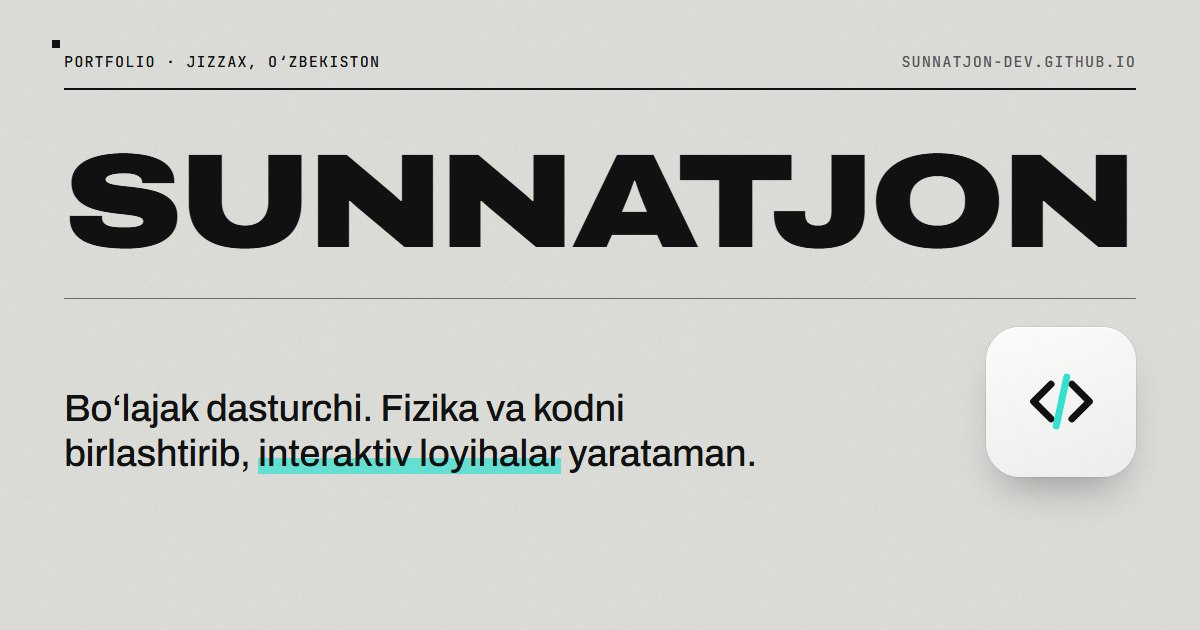
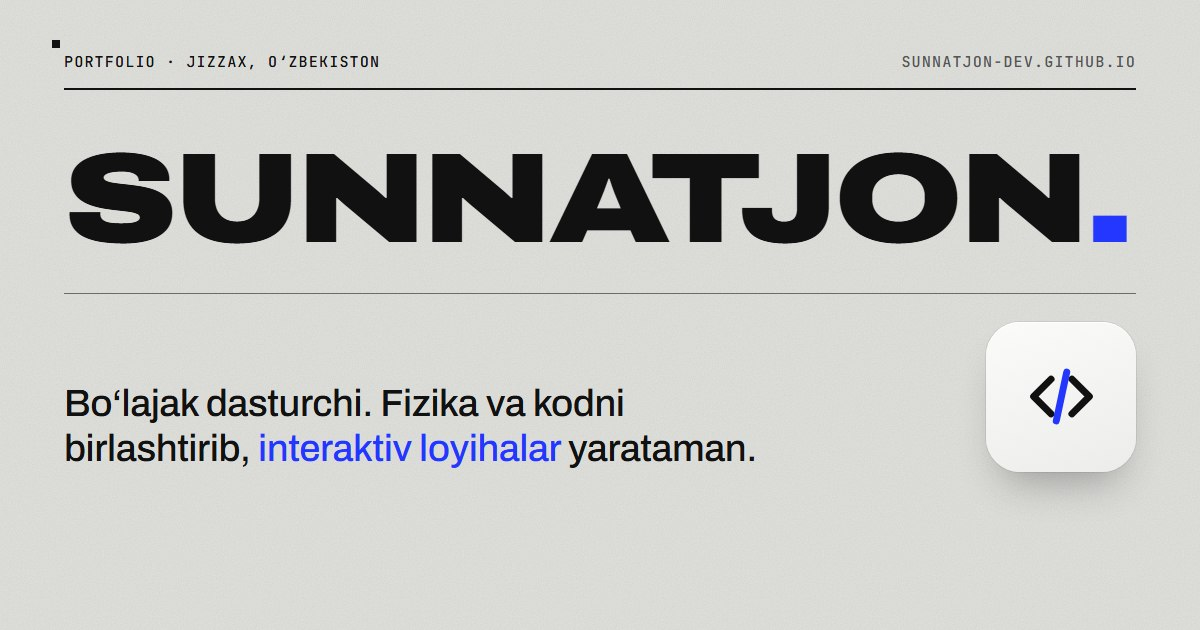
Asosiy rang: elektr-ko'k (#2337FF)
- Moviy (#33E0D0) o'rniga to'yingan elektr-ko'k — Swiss posterlarining klassik rangi
- Kontrast yetarli (fonda 5.2:1, oq yozuv bilan 6.9:1), shuning uchun endi
  tugmalar, ajratilgan so'zlar va sarlavha nuqtasida ham ishlatiladi
- Qora terminal ichida och ko'k variant (#9AA6FF)
- Laboratoriya grafiklari, favicon, telefon ikonkasi, og:image va
  loyiha sahifasidagi skrinshotlar yangi rangda

diff --git a/style.css b/style.css
@@ -56,10 +56,12 @@
   --code-bg: rgba(17, 17, 17, 0.08);
   --hover: #ffffff;                  /* tugma ustiga kelganda */
   --placeholder: #7d7d79;
-  --mark: rgba(51, 224, 208, 0.55);  /* matn ostidagi moviy belgi */
+  --mark: rgba(35, 55, 255, 0.16);   /* asosiy rangning och varianti (fon uchun) */
 
   /* Yagona urg'u rangi (Swiss qoidasi: bitta rang) — faqat bezak uchun, matnda emas */
-  --cyan: #33e0d0;
+  --accent: #2337ff;          /* ASOSIY RANG — elektr-ko'k (Klein ko'ki). Fonda 5.2:1, oq yozuv bilan 6.9:1 kontrast */
+  --accent-dark: #1626d9;     /* tugma ustiga kelganda */
+  --accent-on-dark: #9aa6ff;  /* qora terminal ichida (u yerda to'q ko'k ko'rinmaydi) */
 
   /* Yozuv o'lchamlari shkalasi — butun saytda faqat shular ishlatiladi */
   --fs-xs: 12px;     /* yorliqlar, mono yozuvlar */
@@ -172,7 +174,7 @@ svg { display: block; }
 
 .mast__title {
   margin: clamp(28px, 5vw, 56px) 0 clamp(20px, 3vw, 32px);
-  font-size: min(11.4vw, 142px);
+  font-size: min(11vw, 136px);   /* oxiridagi nuqta bilan ham bir qatorga sig'adi */
   font-weight: 900;
   line-height: 0.82;
   letter-spacing: -0.025em;
@@ -183,13 +185,13 @@ svg { display: block; }
   width: 9px;
   height: 9px;
   border-radius: 50%;
-  background: var(--cyan);
+  background: var(--accent);
   box-shadow: 0 0 0 1.5px var(--ink);
   animation: pulse 2.4s infinite;
 }
 @keyframes pulse {
-  0%, 100% { box-shadow: 0 0 0 1.5px var(--ink), 0 0 0 0 rgba(51, 224, 208, .6); }
-  60% { box-shadow: 0 0 0 1.5px var(--ink), 0 0 0 7px rgba(51, 224, 208, 0); }
+  0%, 100% { box-shadow: 0 0 0 1.5px var(--ink), 0 0 0 0 rgba(35, 55, 255, .5); }
+  60% { box-shadow: 0 0 0 1.5px var(--ink), 0 0 0 7px rgba(35, 55, 255, 0); }
 }
 
 .barcode { height: 34px; width: auto; fill: var(--ink); }
@@ -225,8 +227,11 @@ svg { display: block; }
 }
 .hero__lead em {
   font-style: normal;
-  background: linear-gradient(transparent 62%, var(--mark) 62%);
+  color: var(--accent);   /* eng muhim so'zlar asosiy rangda */
 }
+
+/* Sarlavha oxiridagi ko'k nuqta — saytning kichik "belgisi" */
+.mast__dot { color: var(--accent); }
 .hero__side { display: grid; gap: 18px; }
 .status { font-size: var(--fs-xs); letter-spacing: 0.04em; text-transform: uppercase; }
 .hero__cta { display: flex; flex-wrap: wrap; gap: 8px; }
@@ -381,7 +386,7 @@ code {
 .proj__n { color: var(--muted); font-size: var(--fs-xs); line-height: 1.9; }
 .proj h3 { color: var(--ink); font-size: var(--fs-lg); font-weight: 700; font-stretch: 112%; line-height: 1.3; }
 .proj h3 a { display: inline-block; padding: 2px 0; text-decoration: none; }
-.proj h3 a:hover { text-decoration: underline; text-decoration-color: var(--cyan); text-decoration-thickness: 3px; text-underline-offset: 5px; }
+.proj h3 a:hover { text-decoration: underline; text-decoration-color: var(--accent); text-decoration-thickness: 3px; text-underline-offset: 5px; }
 .proj p { margin-top: 6px; color: var(--text); font-size: var(--fs-md); line-height: 1.65; max-width: 52ch; text-wrap: pretty; }
 .proj__links {
   display: flex;
@@ -399,7 +404,7 @@ code {
   color: var(--ink);
   text-underline-offset: 4px;
 }
-.proj__links a:hover { text-decoration-color: var(--cyan); text-decoration-thickness: 2px; }
+.proj__links a:hover { text-decoration-color: var(--accent); text-decoration-thickness: 2px; }
 .projects__next { margin-top: auto; padding-top: 18px; border-top: 1px solid var(--rule); }
 
 .tags { display: flex; flex-wrap: wrap; gap: 6px; margin-top: 12px; }
@@ -433,7 +438,7 @@ code {
   text-transform: uppercase;
 }
 .skills h3 i { width: 10px; height: 10px; background: var(--ink); }
-.skills h3 i.c { background: var(--cyan); box-shadow: inset 0 0 0 1px var(--ink); }
+.skills h3 i.c { background: var(--accent); box-shadow: inset 0 0 0 1px var(--ink); }
 .skills h3 i.l { background: transparent; box-shadow: inset 0 0 0 1px var(--ink); }
 .skills li { padding: 5px 0 5px 20px; color: var(--text); font-size: var(--fs-md); }
 .skills li b { color: var(--ink); font-weight: 600; }
@@ -454,7 +459,7 @@ code {
 .legend { margin-top: auto; padding-top: 22px; justify-content: flex-start; gap: 18px; }
 .legend span { display: inline-flex; align-items: center; gap: 8px; }
 .legend i { width: 10px; height: 10px; background: var(--ink); }
-.legend i.c { background: var(--cyan); box-shadow: inset 0 0 0 1px var(--ink); }
+.legend i.c { background: var(--accent); box-shadow: inset 0 0 0 1px var(--ink); }
 .legend i.l { background: transparent; box-shadow: inset 0 0 0 1px var(--ink); }
 
 /* 004 — Yo'l: sxema */
@@ -502,7 +507,7 @@ code {
   border-bottom: 1.6px solid var(--panel);
   transform: rotate(-45deg);
 }
-.now .node { background: var(--cyan); box-shadow: 0 0 0 4px var(--panel), 0 0 0 5px var(--ink); }
+.now .node { background: var(--accent); box-shadow: 0 0 0 4px var(--panel), 0 0 0 5px var(--ink); }
 .route b { color: var(--ink); font-size: var(--fs-md); font-weight: 700; font-stretch: 112%; }
 .route em { color: var(--muted); font-family: var(--font-mono); font-size: var(--fs-xs); font-style: normal; }
 .now em { color: var(--ink); }
@@ -513,14 +518,14 @@ code {
 .progress__bar { display: flex; height: 6px; background: var(--track); }
 .progress__bar i { transform-origin: left; transition: transform 1s var(--ease) .2s; }
 .progress__bar i:first-child { width: 40%; background: var(--ink); }
-.progress__bar i:last-child { width: 10%; background: var(--cyan); transition-delay: .7s; }
+.progress__bar i:last-child { width: 10%; background: var(--accent); transition-delay: .7s; }
 
 /* 005 — O'rganish kundaligi */
 .c-12 { grid-column: 1 / -1; }
 /* Teg ranglari: bitta urg'u rangi (moviy) + qora/kulrang/bo'sh — to'rtta aniq farq */
 .t-html { --tc: var(--ink); }
-.t-css { --tc: var(--cyan); }
-.t-js { --tc: linear-gradient(135deg, var(--ink) 50%, var(--cyan) 50%); }
+.t-css { --tc: var(--accent); }
+.t-js { --tc: linear-gradient(135deg, var(--ink) 50%, var(--accent) 50%); }
 .t-git { --tc: transparent; }
 
 .diary__intro {
@@ -566,7 +571,7 @@ code {
   border: 1.5px solid var(--ink);
   background: var(--panel);
 }
-.log__item:first-child::before { top: 5px; background: var(--cyan); }
+.log__item:first-child::before { top: 5px; background: var(--accent); }
 .log__item time { color: var(--muted); font-size: var(--fs-xs); font-variant-numeric: tabular-nums; }
 .log__tag {
   display: inline-flex;
@@ -659,14 +664,14 @@ code {
   width: 18px;
   height: 18px;
   margin-top: -8px;
-  background: var(--cyan);
+  background: var(--accent);
   border: 1.5px solid var(--ink);
   border-radius: 0;
 }
 .slider input::-moz-range-thumb {
   width: 15px;
   height: 15px;
-  background: var(--cyan);
+  background: var(--accent);
   border: 1.5px solid var(--ink);
   border-radius: 0;
 }
@@ -733,10 +738,10 @@ code {
   scrollbar-color: #444 transparent;
 }
 .terminal p { white-space: pre-wrap; word-break: break-word; }
-.t-prompt { color: var(--cyan); white-space: nowrap; }
+.t-prompt { color: var(--accent-on-dark); white-space: nowrap; }
 .t-cmd { color: #fff; }
 .t-out { color: #cfcfcb; }
-.t-ok { color: var(--cyan); }
+.t-ok { color: var(--accent-on-dark); }
 .t-err { color: #ff8a5c; }
 .t-dim { color: #8d8d89; }
 .terminal a { color: #fff; }
@@ -749,7 +754,7 @@ code {
   border: 0;
   outline: none;
   color: #fff;
-  caret-color: var(--cyan);
+  caret-color: var(--accent-on-dark);
 }
 
 .chips { display: flex; flex-wrap: wrap; gap: 6px; margin-top: 14px; }
@@ -854,7 +859,7 @@ code {
 .field input:focus, .field textarea:focus {
   outline: none;
   border-color: var(--ink);
-  box-shadow: 0 0 0 3px rgba(51, 224, 208, 0.55);
+  box-shadow: 0 0 0 3px rgba(35, 55, 255, 0.28);
 }
 .field textarea { min-height: 96px; }
 
@@ -866,8 +871,8 @@ code {
   min-height: 48px;
   padding: 0 24px;
   border: 0;
-  background: var(--ink);
-  color: var(--paper);
+  background: var(--accent);
+  color: #fff;
   font-weight: 700;
   font-stretch: 125%;
   font-size: var(--fs-sm);
@@ -875,9 +880,10 @@ code {
   text-transform: uppercase;
   cursor: pointer;
   white-space: nowrap;
-  transition: transform .15s;
+  transition: transform .15s, background-color .15s;
 }
-.btn svg { color: var(--cyan); transition: transform .2s var(--ease); }
+.btn svg { color: currentColor; transition: transform .2s var(--ease); }
+.btn:hover { background: var(--accent-dark); }
 .btn:hover svg { transform: translateX(3px); }
 .btn:active { transform: scale(0.96); }
 
@@ -1009,7 +1015,7 @@ code {
   text-decoration: none;
 }
 .next b { font-size: clamp(22px, 3vw, 34px); }
-.next:hover b { text-decoration: underline; text-decoration-color: var(--cyan); text-decoration-thickness: 4px; text-underline-offset: 8px; }
+.next:hover b { text-decoration: underline; text-decoration-color: var(--accent); text-decoration-thickness: 4px; text-underline-offset: 8px; }
 
 
 /* =========================================================
@@ -1035,7 +1041,7 @@ code {
   .mast__bar { flex-direction: column; align-items: flex-start; gap: 4px; }
   .mast__nav { width: 100%; justify-content: space-between; }
   .mast__nav a { padding: 0; }
-  .mast__title { font-size: 11.1vw; }
+  .mast__title { font-size: 10.7vw; }
   /* Panel sarlavhasi: o'ngdagi yozuv sarlavha ostiga tushadi */
   .panel__head { grid-template-columns: auto minmax(0, 1fr); row-gap: 2px; }
   .panel__head .code { grid-column: 2; }
@@ -1101,7 +1107,7 @@ code {
 .foot__credit a { white-space: nowrap; }
 
 /* Qulaylik: terminal maydoni fokusda bo'lsa — butun oyna atrofida aniq chegara */
-.terminal:focus-within { outline: 2px solid var(--cyan); outline-offset: 2px; }
+.terminal:focus-within { outline: 2px solid var(--accent); outline-offset: 2px; }
 .terminal__line input { min-height: 28px; }
 
 
@@ -1148,7 +1154,7 @@ code {
   gap: 4px;
   padding: 12px 14px;
   border: 1px solid var(--frame);
-  border-left: 4px solid var(--cyan);
+  border-left: 4px solid var(--accent);
   background: var(--field);
 }
 .lab__task b { color: var(--ink); font-size: var(--fs-md); font-weight: 600; line-height: 1.4; }

diff --git a/js/lab-nur.js b/js/lab-nur.js
@@ -72,7 +72,7 @@
   // --- Chizish ---
   let olcham = { w: 0, h: 0 };
 
-  // "#33e0d0" → "rgba(51, 224, 208, a)"
+  // "#2337ff" → "rgba(35, 55, 255, a)"
   function shaffof(hex, a) {
     const s = hex.replace("#", "");
     const [r, g, b] = [0, 2, 4].map((i) => parseInt(s.slice(i, i + 2), 16));
@@ -112,9 +112,9 @@
     ctx.font = "11px 'JetBrains Mono', monospace";
 
     // Ikki muhit: zichroq muhit to'qroq bo'yaladi
-    ctx.fillStyle = shaffof(ranglar.cyan, (hol.n1 - 1) * 0.16);
+    ctx.fillStyle = shaffof(ranglar.accent, (hol.n1 - 1) * 0.12);
     ctx.fillRect(0, 0, w, cy);
-    ctx.fillStyle = shaffof(ranglar.cyan, (hol.n2 - 1) * 0.16);
+    ctx.fillStyle = shaffof(ranglar.accent, (hol.n2 - 1) * 0.12);
     ctx.fillRect(0, cy, w, h - cy);
     ctx.strokeStyle = ranglar.ink; ctx.lineWidth = 1.5;
     ctx.beginPath(); ctx.moveTo(0, cy); ctx.lineTo(w, cy); ctx.stroke();
@@ -159,7 +159,7 @@
     ctx.fillStyle = ranglar.field; ctx.fill();
     ctx.strokeStyle = ranglar.ink; ctx.lineWidth = 1.5; ctx.stroke();
     ctx.beginPath(); ctx.arc(manba.x, manba.y, 4.5, 0, Math.PI * 2);
-    ctx.fillStyle = ranglar.cyan; ctx.fill();
+    ctx.fillStyle = ranglar.accent; ctx.fill();
   }
 
   // --- Natijalar va vazifa ---

diff --git a/js/lab.js b/js/lab.js
@@ -28,7 +28,7 @@ const natijaEl = {
 const css = (nom) => getComputedStyle(document.documentElement).getPropertyValue(nom).trim();
 const ranglar = {};
 function ranglarniOl() {
-  ["ink", "muted", "rule", "grey", "cyan", "field"].forEach((nom) => (ranglar[nom] = css("--" + nom)));
+  ["ink", "muted", "rule", "grey", "accent", "field"].forEach((nom) => (ranglar[nom] = css("--" + nom)));
 }
 ranglarniOl();
 
@@ -144,10 +144,10 @@ function chiz() {
   ctx.lineWidth = 2;
   chiziq(CHET.chap, m.y(0) + 1, olcham.w - CHET.ong, m.y(0) + 1);
 
-  // 3) Nishon: moviy maydoncha va bayroqcha
+  // 3) Nishon: ko'k maydoncha va bayroqcha
   const { x: nx, eni } = lab.nishon;
   const bayroqX = m.x(nx + eni / 2);
-  ctx.fillStyle = ranglar.cyan;
+  ctx.fillStyle = ranglar.accent;
   ctx.strokeStyle = ranglar.ink;
   ctx.lineWidth = 1;
   ctx.fillRect(m.x(nx), m.y(0) - 6, m.x(nx + eni) - m.x(nx), 6);
@@ -204,7 +204,7 @@ function chiz() {
     const [x, y] = nuqta(u, u.t);
     ctx.beginPath();
     ctx.arc(m.x(x), m.y(y), 6, 0, Math.PI * 2);
-    ctx.fillStyle = ranglar.cyan;
+    ctx.fillStyle = ranglar.accent;
     ctx.fill();
     ctx.lineWidth = 1.5;
     ctx.stroke();

diff --git a/index.html b/index.html
@@ -55,7 +55,7 @@
       </nav>
     </div>
 
-    <h1 class="mast__title display">Sunnatjon<span class="sr-only"> Gulboyev</span></h1>
+    <h1 class="mast__title display">Sunnatjon<span class="mast__dot" aria-hidden="true">.</span><span class="sr-only"> Gulboyev</span></h1>
 
     <div class="hero">
       <!-- Bu jumla — saytning eng muhim gapi. O'z so'zlaringiz bilan yozing! -->
@@ -145,7 +145,7 @@
           <div class="lab__canvas">
             <canvas id="lab-canvas" role="img" aria-label="To‘pning uchish yo‘li (traektoriyasi) chizilgan grafik"></canvas>
           </div>
-          <p class="small">Burchak va tezlikni tanlang, keyin <b>Otish</b>ni bosing. To‘pni moviy nishonga tushiring. Oy yoki Marsda nima o‘zgarishini ham sinab ko‘ring! <a href="loyihalar/fizika-laboratoriyasi.html">Qanday ishlaydi →</a></p>
+          <p class="small">Burchak va tezlikni tanlang, keyin <b>Otish</b>ni bosing. To‘pni ko‘k nishonga tushiring. Oy yoki Marsda nima o‘zgarishini ham sinab ko‘ring! <a href="loyihalar/fizika-laboratoriyasi.html">Qanday ishlaydi →</a></p>
         </div>
 
         <form class="lab__controls" id="lab-form">

diff --git a/loyihalar/fizika-laboratoriyasi.html b/loyihalar/fizika-laboratoriyasi.html
@@ -60,7 +60,7 @@
   <main class="sheet case" id="asosiy">
 
     <figure class="panel c-12 case__shot">
-      <img src="../images/lab.jpg" alt="Fizika laboratoriyasi: grafikda to‘pning uchish yo‘li, o‘ng tomonda burchak, tezlik va sayyora tanlash tugmalari" width="1145" height="538">
+      <img src="../images/lab.jpg" alt="Fizika laboratoriyasi: grafikda to‘pning uchish yo‘li, o‘ng tomonda burchak, tezlik va sayyora tanlash tugmalari" width="1145" height="628">
       <figcaption class="small">60° burchak va 22 m/s tezlikda otilgan to‘p: 42.7 m uchdi, eng baland nuqtasi 18.5 m.</figcaption>
     </figure>
 

diff --git a/js/asosiy.js b/js/asosiy.js
@@ -108,6 +108,6 @@ document.getElementById("yil").textContent = new Date().getFullYear();
 // ----- 7. Kodni o'qiyotgan dasturchilar uchun yashirin xabar (F12 → Console) -----
 console.log(
   "%cSalom, dasturchi! 👋\n%cKodimni ko‘ryapsizmi? Bu mening birinchi loyiham. Gmail: gulbayevsunnatjon@gmail.com",
-  "font-size:18px;font-weight:bold;color:#33e0d0",
+  "font-size:18px;font-weight:bold;color:#2337ff",
   "font-size:13px;color:#888"
 );

diff --git a/js/lab-mayatnik.js b/js/lab-mayatnik.js
@@ -148,7 +148,7 @@
     ctx.lineWidth = 1.5;
     ctx.beginPath(); ctx.moveTo(ox, oy); ctx.lineTo(bx, by); ctx.stroke();
     ctx.beginPath(); ctx.arc(bx, by, 11, 0, Math.PI * 2);
-    ctx.fillStyle = ranglar.cyan; ctx.fill();
+    ctx.fillStyle = ranglar.accent; ctx.fill();
     ctx.lineWidth = 1.5; ctx.stroke();
     ctx.beginPath(); ctx.arc(ox, oy, 3, 0, Math.PI * 2); ctx.fillStyle = ranglar.ink; ctx.fill();
 

diff --git a/404.html b/404.html
@@ -27,7 +27,7 @@
       font-size: 14px;
       line-height: 1.8;
     }
-    .nf__term b { color: #33e0d0; font-weight: 400; }
+    .nf__term b { color: #9aa6ff; font-weight: 400; }
     .nf__term i { color: #ff8a5c; font-style: normal; }
     .nf__links { display: flex; flex-wrap: wrap; gap: 8px; margin-top: 28px; }
   </style>
